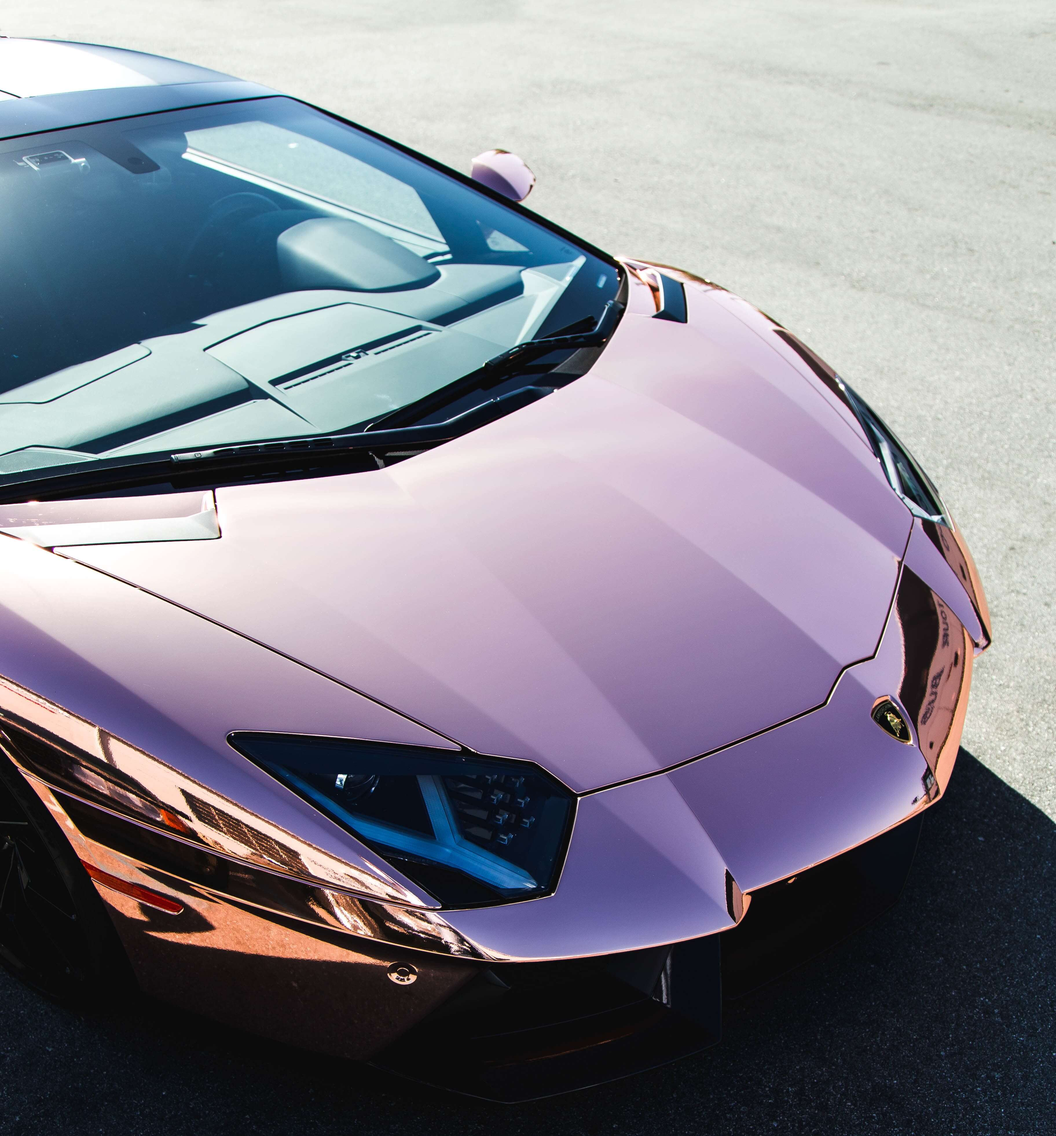
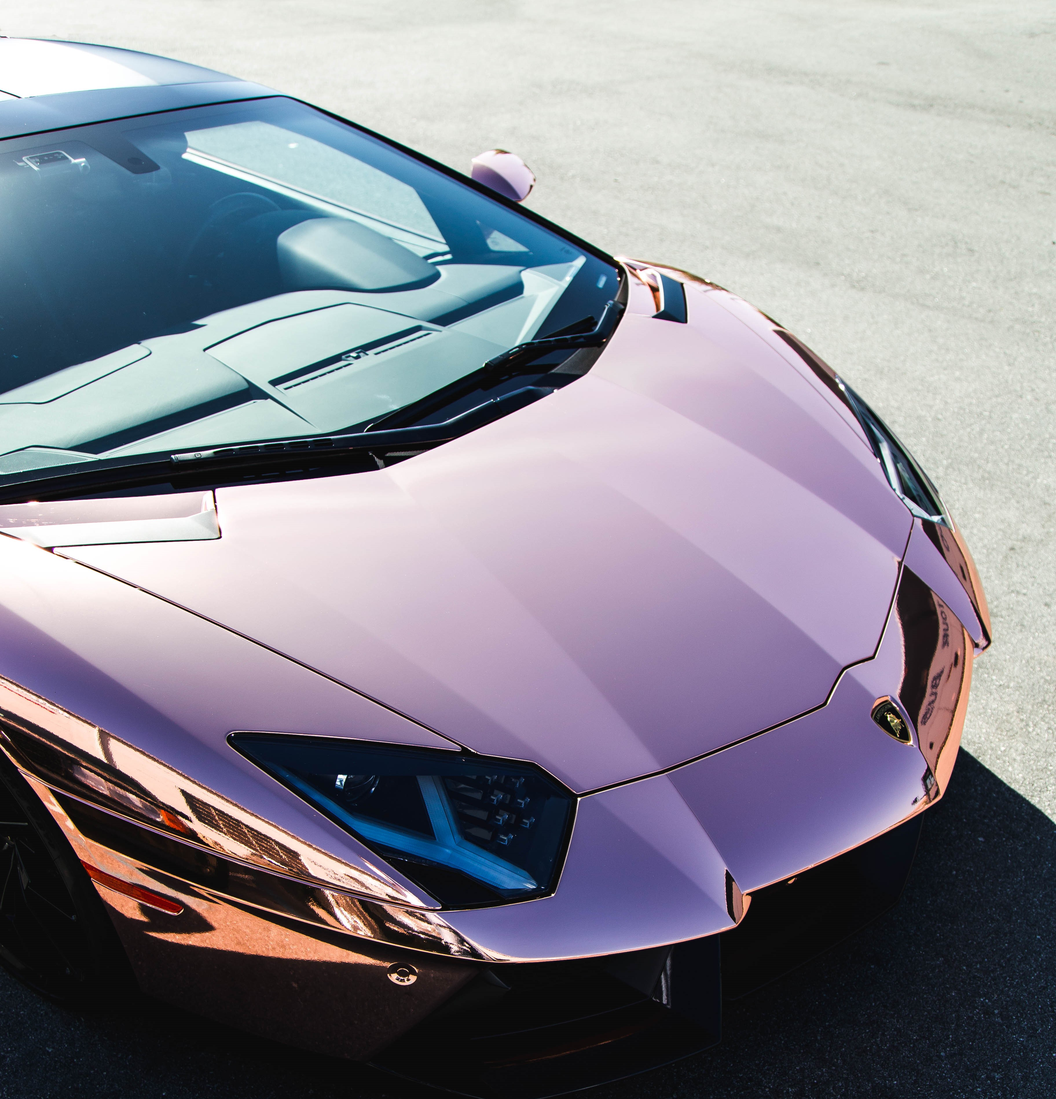
Final

diff --git a/index.html b/index.html
@@ -130,14 +130,14 @@
 
       <!--Second slide-->
       <div id="Home" class="carousel-item">
-        <div class="view" style="background-image: url('img/carousel photo/Header%202.jpg'); background-repeat: no-repeat; background-size: 100% 100%; opacity: 0.7;">
+        <div class="view" style="background-image: url('img/carousel photo/Header%202.jpg'); background-repeat: no-repeat; background-size: 100% 100%; ">
             </div>
       </div>
       <!--/Second slide-->
 
       <!--Third slide-->
       <div class="carousel-item">
-        <div class="view" style="background-image: url('img/carousel photo/Header%203.jpg'); background-repeat: no-repeat; background-size: 100% 100%; opacity: 0.7;">
+        <div class="view" style="background-image: url('img/carousel photo/Header%203.jpg'); background-repeat: no-repeat; background-size: 100% 100%; ">
             
         </div>
       </div>
@@ -145,7 +145,7 @@
 
        <!--Fourth slide-->
       <div class="carousel-item">
-        <div class="view" style="background-image:  url('img/carousel photo/Header%204.jpg'); background-repeat: no-repeat; background-size: 100% 100%; opacity: 0.7;">
+        <div class="view" style="background-image:  url('img/carousel photo/Header%204.jpg'); background-repeat: no-repeat; background-size: 100% 100%;">
 
           <!-- Mask & flexbox options-->
 <!--          <div class="mask rgba-black-light d-flex justify-content-center align-items-center">-->
@@ -181,7 +181,7 @@
 
     <!--Fifth slide-->
       <div class="carousel-item">
-        <div class="view" style="background-image: url('img/carousel photo/Header%205.jpg'); background-repeat: no-repeat; background-size: 100% 100%; opacity: 0.7;">
+        <div class="view" style="background-image: url('img/carousel photo/Header%205.jpg'); background-repeat: no-repeat; background-size: 100% 100%;">
         </div>
       </div>
       <!--/ Fifth slide-->

diff --git a/css/style.css b/css/style.css
@@ -27,6 +27,8 @@ body{
 }
 .view{
     height:100%;
+    -o-object-fit: cover;
+    object-fit: cover;
     opacity: 0.8 !important;
 }
 .mask{
